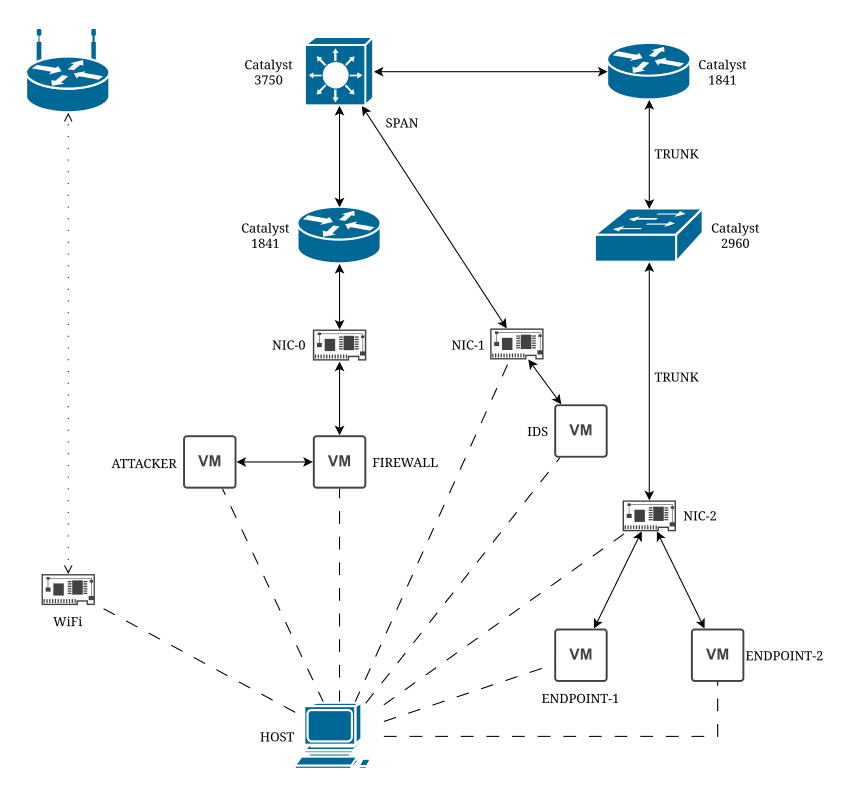
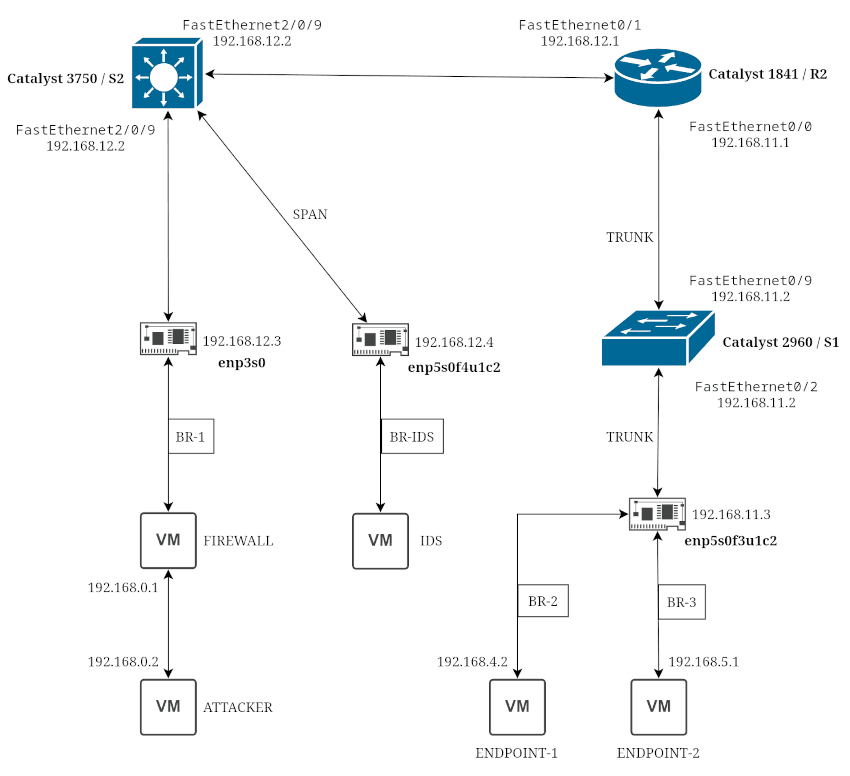
add_1-01

diff --git a/Networking_Fundamentals_Labs/1-01 Multi-router topology.md b/Networking_Fundamentals_Labs/1-01 Multi-router topology.md
@@ -1,0 +1,295 @@
+# PRE CONFIGURATION
+
+## FACTORY RESET
+
+### Establish a console connection and open the cli.
+
+> Find the connection
+
+```
+ls /dev/ttyUSB* /dev/ttyS*
+```
+
+- /dev/ttyUSB0: Common if using a USB-to-RJ45 (blue) console cable.
+- /dev/ttyS0: Common if using a native DB9 serial port.
+
+> Connect using Screen
+
+```
+screen /dev/ttyUSB0 9600
+```
+
+`screen [device] [baud_rate]`
+
+### Power off the switch / router while keeping the console cli open.
+
+> Enter Recovery Mode
+
+- Router
+    + Within the first 60 seconds of boot-up, send a Break sequence. In screen, this is: Press `Ctrl+a`, then press `Ctrl+b`.
+- Switch
+    + Power on the switch & hold the mode button until recovery mode is shown on the cli.
+
+### Reset
+
+```
+flash_init
+dir flash:
+del flash:vlan.dat
+del flash:config.text
+del flash:private-config.text (if present)
+boot
+```
+
+---
+
+## INITIAL SETUP
+
+1. Enter Configuration Mode
+    ```
+    configure terminal
+    ```
+2. Set a Hostname (Required for SSH)
+    ```
+    hostname S1
+    ```
+3. Set a Domain Name (Required for SSH)
+    ```
+    ip domain-name lab.local
+    ```
+4. Generate Encryption Keys
+    ```
+    crypto key generate rsa
+    # Use at least 2048 bits for SSH version 2
+    ```
+5. Create a Local User
+    ```
+    username admin privilege 15 secret admin
+    ```
+6. Configure the VTY lines (virtual 'ports' for SSH)
+    ```
+    line vty 0 15
+    login local
+    transport input ssh
+    exit
+    ```
+7. Enable SSH Version 2
+    ```
+    ip ssh version 2
+    ```
+8. Set Management IP
+    ```
+    # S2
+    interface vlan 1
+        ip address 192.168.10.1 255.255.255.0
+        no shutdown
+
+    # S1
+    interface vlan 1
+        ip address 192.168.50.3 255.255.255.0
+        no shutdown
+    ```
+9. Set enable password
+    ```
+    configure terminal
+        enable secret enable
+        exit
+        ```
+10. Save Configs
+    ```
+    copy running-config startup-config
+    ```
+
+> CREDENTIALS ( • ᴗ - ) ✧\
+> 
+> **ENABLE** : enable\
+> **USER** : admin\
+> **PASSWORD** : admin\
+> **DOMAIN** : admin.com
+
+---
+
+## HOST SETUP
+
+1. Arch Linux Compatibility with older Cisco SSH Algorithms (temporary)
+    ```
+    ssh -o KexAlgorithms=+diffie-hellman-group14-sha1 -o HostKeyAlgorithms=+ssh-rsa admin@192.168.12.1
+    ```
+2. add compatibility profiles (permanant)
+    ```
+    # vim ~/.ssh/config
+    # add
+
+    Host 192.168.10.*
+    HostKeyAlgorithms +ssh-rsa
+    KexAlgorithms +diffie-hellman-group14-sha1
+    User admin
+
+    Host 192.168.50.*
+    HostKeyAlgorithms +ssh-rsa
+    KexAlgorithms +diffie-hellman-group14-sha1
+    User admin
+    ```
+
+---
+
+# NETWORK CONFIGURATION
+
+## TOPOLOGY
+
+![topology](../images/seclab.png)
+
+### NIC-1 (enp0s3)
+
+```
+sudo nmcli connection modify "Wired connection 1" ipv4.addresses "192.168.10.2/24" ipv4.method manual connection.autoconnect yes
+sudo nmcli connection up "Wired connection 1"
+```
+
+### NIC-2 (enp5s0f3u1c2)
+
+```
+sudo nmcli connection modify "Wired connection 2" ipv4.addresses "192.168.50.2/24" ipv4.method manual connection.autoconnect yes
+sudo nmcli connection up "Wired connection 2"
+```
+
+### NIC-3 (enp5s0f4u1c2)
+
+```
+sudo ip addr flush dev enp5s0f4u1c2
+sudo nmcli connection modify "Wired connection 3" ipv4.method disabled ipv6.method ignore
+sudo nmcli connection modify "Wired connection 3" connection.autoconnect yes
+sudo nmcli connection up "Wired connection 3"
+```
+
+### Catalyst 3750 / S2
+
+enable routing globally
+```
+conf t
+ ip routing
+```
+
+management ip address
+```
+interface Vlan1
+ ip address 192.168.10.1 255.255.255.0
+
+interface FastEthernet2/0/2
+ switchport mode access
+ switchport access vlan 1
+```
+
+routing physical ports
+```
+interface FastEthernet2/0/23
+ no switchport
+ ip address 192.168.20.2 255.255.255.252
+```
+
+set deafault route
+```
+ip route 0.0.0.0 0.0.0.0 192.168.20.1
+```
+
+duplicate traffic on *FastEthernet2/0/23* to *FastEthernet2/0/14*.
+```
+conf t
+ no monitor session 1
+ monitor session 1 source interface FastEthernet2/0/23 both
+ monitor session 1 destination interface FastEthernet2/0/14
+```
+
+### Catalyst 1841 / R2
+
+assign ip addresses
+```
+conf t
+interface FastEthernet0/1
+ description Internal LAN
+ ip address 192.168.20.1 255.255.255.252
+ no shutdown
+ exit
+```
+
+setup vlan routing
+```
+conf t
+
+# Remove the IP from the physical interface
+interface FastEthernet0/0
+ no ip address
+ no shutdown
+ exit
+
+# Configure Sub-interface for VLAN 30
+interface FastEthernet0/0.30
+ description Gateway for VLAN 30
+ encapsulation dot1Q 30
+ ip address 192.168.30.1 255.255.255.0
+ exit
+
+# Configure Sub-interface for VLAN 40
+interface FastEthernet0/0.40
+ description Gateway for VLAN 40
+ encapsulation dot1Q 40
+ ip address 192.168.40.1 255.255.255.0
+ exit
+
+# Configure Sub-interface for VLAN 50
+interface FastEthernet0/0.50
+ description Gateway for VLAN 50
+ encapsulation dot1Q 50
+ ip address 192.168.50.1 255.255.255.0
+ exit
+```
+
+### Catalyst 2960 / S1
+
+create vlans
+```
+conf t
+vlan 30
+ name Marketing_VLAN
+vlan 40
+ name Engineering_VLAN
+vlan 50
+ name NIC2_VLAN
+exit
+```
+
+configure trunk ports
+```
+conf t
+
+interface GigabitEthernet0/1
+ description Trunk to R2
+ switchport trunk encapsulation dot1q
+ switchport mode trunk
+ # Optional: Limit allowed VLANs for security
+ switchport trunk allowed vlan 30,40,50
+ no shutdown
+
+interface FastEthernet0/2
+ description Trunk to NIC-2
+ switchport mode trunk
+ switchport trunk allowed vlan 30,40,50
+ # Set the Native VLAN (If the Host OS of NIC-2 (192.168.50.2) sends untagged traffic, it will fall into VLAN 50).
+ switchport trunk native vlan 50
+ no shutdown
+ exit
+```
+
+set management ip
+```
+interface Vlan50
+ description Management Interface
+ ip address 192.168.50.3 255.255.255.0
+ no shutdown
+exit
+```
+
+set deafault route
+```
+ip default-gateway 192.168.50.1
+```

diff --git a/Manuals/HOST_NETWORKING.md b/Manuals/HOST_NETWORKING.md
@@ -170,3 +170,18 @@ nmcli connection up eth0
 ```
 nmcli general hostname server01
 ```
+
+**Using USB Adapters**
+
+> **IP address resetting constantly**\
+> NetworkManager may treat USB interfaces as dynamic or if the hardware briefly disconnects (miliseconds) and reconnects, NetworkManager sees a "new" connection, it falls back to its default behavior (DHCP) unless the profile is strictly locked down.
+
+```
+# Set static IP, set manual mode and ensure it auto-connects
+sudo nmcli connection modify "Wired connection 2" ipv4.addresses "192.168.11.3/24" ipv4.method manual connection.autoconnect yes
+sudo nmcli connection modify "Wired connection 3" ipv4.addresses "192.168.12.4/24" ipv4.method manual connection.autoconnect yes
+
+# Apply the changes immediately
+sudo nmcli connection up "Wired connection 2"
+sudo nmcli connection up "Wired connection 3"
+```

diff --git a/README.md b/README.md
@@ -26,17 +26,6 @@
 
 ![lab](images/seclab.png)
 
-|Network Segment|Subnet|
-|-|-|
-| Attacker <-> Firewall | 192.168.0.0/24 |
-| Firewall <-> C-1841   | 192.168.1.0/24 |
-| C-1841 <-> C-3750     | 192.168.2.0/24 |
-| C-3750 <-> C-1841     | 192.168.3.0/24 |
-| C-1841 <-> Endpoint-1 | 192.168.4.0/24 |
-| C-1841 <-> Endpoint-2 | 192.168.5.0/24 |
-
-![lab](images/seclab_layer3.png)
-
 ---
 
 # Networking_Fundamentals
@@ -308,7 +297,7 @@
 
 ---
 
-# Wireless_Networking**
+# Wireless_Networking
 
 * RF_basics
 * WLAN_security

diff --git a/Manuals/CONSOLE_CONNECTION.md b/Manuals/CONSOLE_CONNECTION.md
@@ -1,0 +1,18 @@
+## Find the connection
+
+```
+ls /dev/ttyUSB* /dev/ttyS*
+```
+
+- /dev/ttyUSB0: Common if you are using a USB-to-RJ45 (blue) console cable.
+- /dev/ttyS0: Common if you are using a native DB9 serial port.
+
+## Connect using Screen
+
+```
+screen /dev/ttyUSB0 9600
+```
+
+`screen [device] [baud_rate]`
+
+> the device may need to be resetted, if the console port is disabled.
